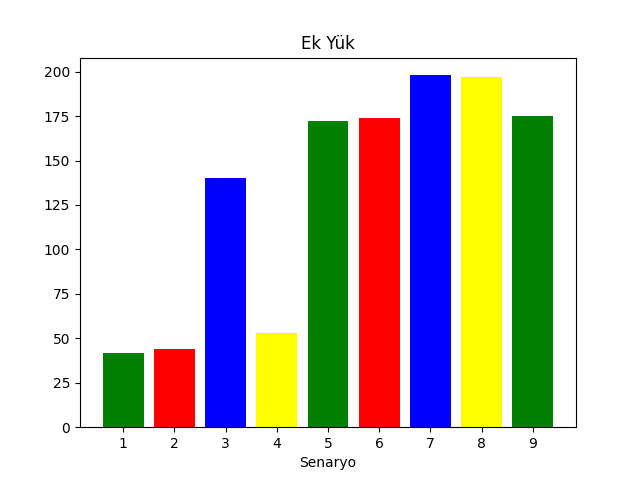
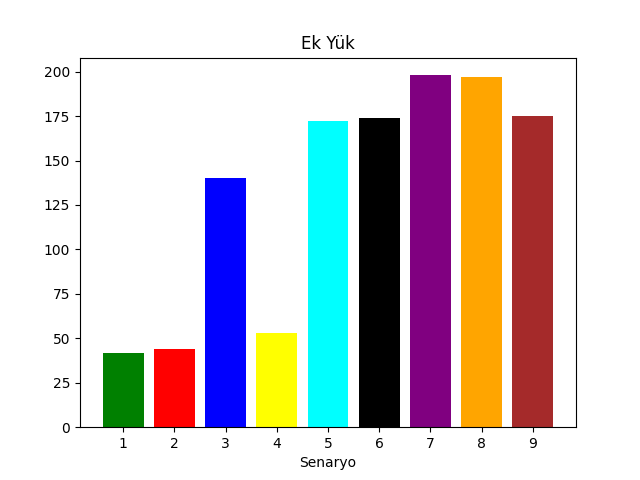
new colors

Changed region(s): [[0.4688, 0.1562, 0.875, 0.9062]]

diff --git a/bildiri/python/result.py b/bildiri/python/result.py
@@ -14,7 +14,7 @@ scenario_files = [
     "../trace/Result_Senaryo-9.txt"
 ]
 
-c = ['green', 'red', 'blue', 'yellow']
+c = ['green', 'red', 'blue', 'yellow', "cyan", "black", "purple", "orange", "brown"]
 data_keys_dict = {
     "Paket Teslim Oranı": "packet_delivery_ratio",
     "Verim": "throughput",
@@ -44,7 +44,6 @@ def plot_all(instance):
         plt.ylabel(y_labels[key])
         plt.savefig(f'../grafikler/{value}.png')
         plt.show()
-
 
 
 instance = TraceResultHelper(scenario_files)
